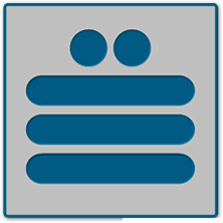
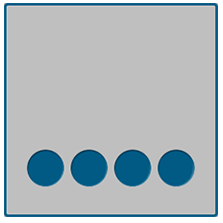
Switched pictured glyph value

diff --git a/source/js/screensaver.js b/source/js/screensaver.js
@@ -51,13 +51,13 @@ var screensaver = function() {
   });
 
   // Once the glyphs are in, fade in the subheadline
-  var glyphVal = [0, 17, 11, 17]; // @TODO 17's in there twice, make a new image
   setTimeout(function(){
     $('#subheadline').fadeIn('slow', function() {
       // Then flip the glyphs
       $('.bigGlyph').each(function(i) {
-        var id = this.id,
+        var id = this.id, // Select by ID
             front = document.getElementById(id),
+            glyphVal = [0, 17, 11, 4], // Glyph values to show on backs
             backContent = '<h1>'+ glyphVal[i] +'</h1>',
             back;
         back = flippant.flip(front, backContent);
